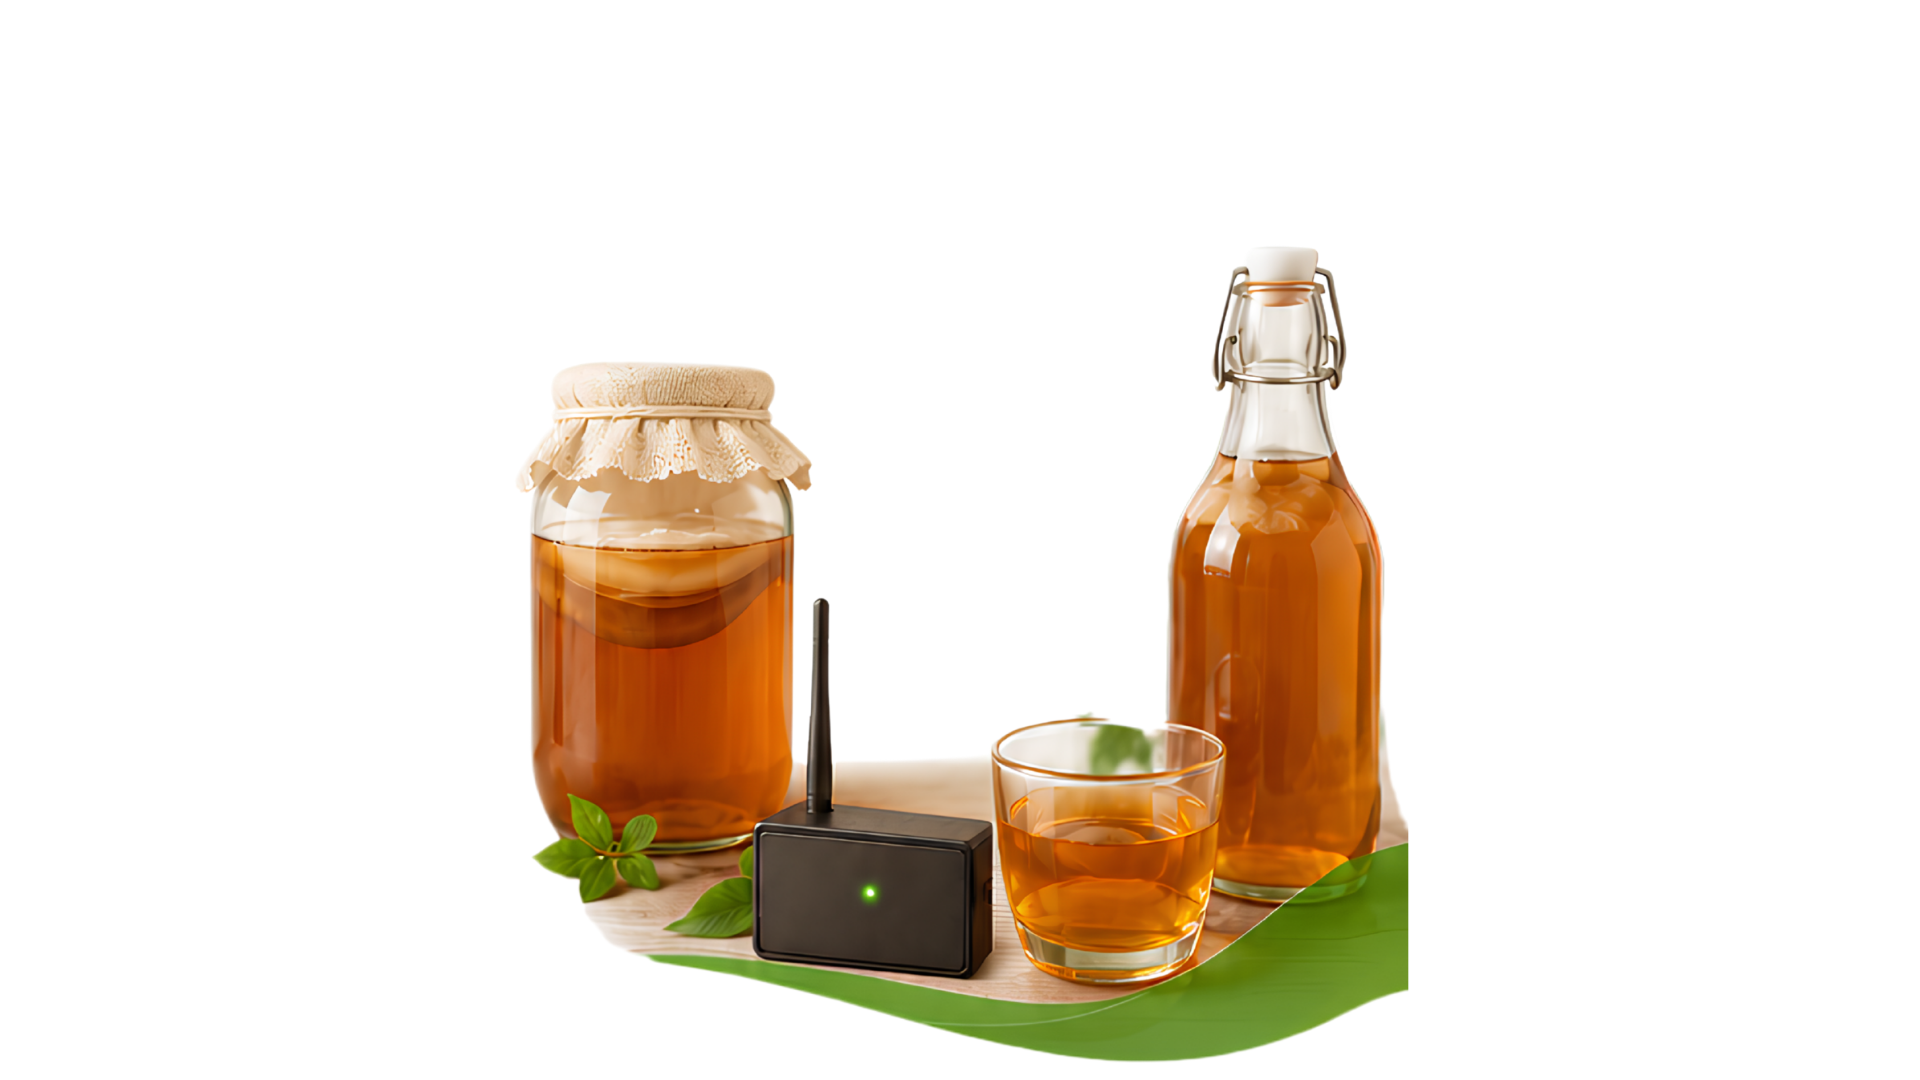
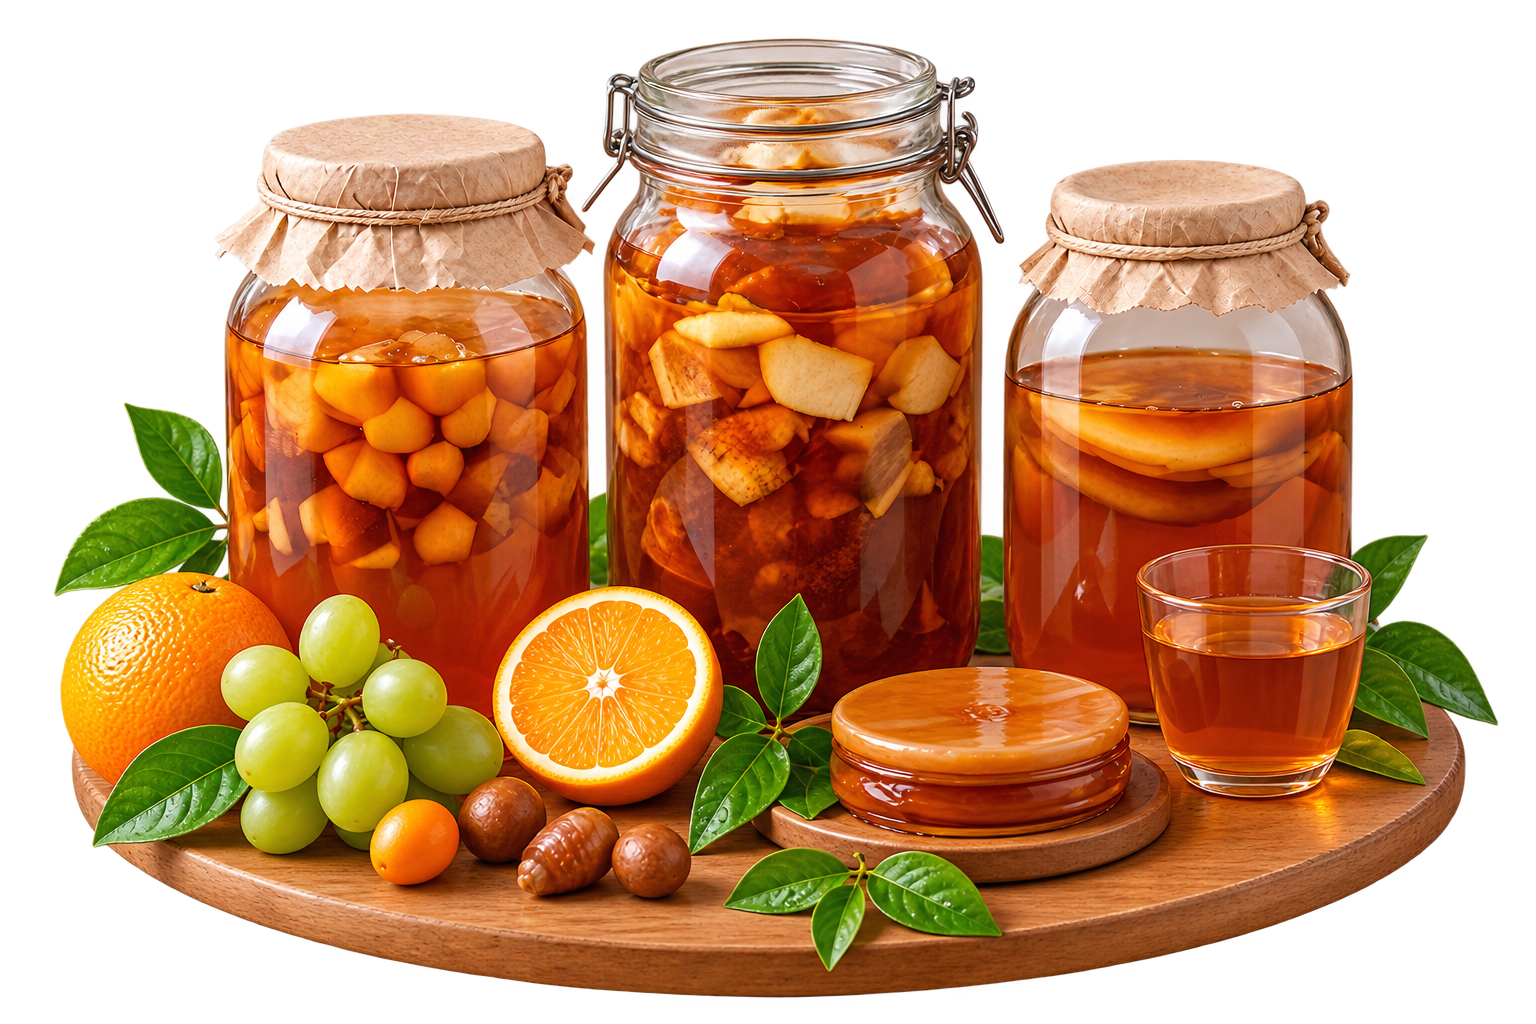
ganti gambar landing page

diff --git a/src/pages/LandingPage.jsx b/src/pages/LandingPage.jsx
@@ -13,9 +13,6 @@ import kombuchaImage from '../assets/Kombucha.png';
 import ecoEnzymeImage from '../assets/eco-enzyme.png';
 import fruitEnzymeImage from '../assets/fruit-enzyme.png';
 
-// =====================================================================
-// ANIMASI
-// =====================================================================
 const fadeInUp = {
   hidden: { opacity: 0, y: 30 },
   visible: { opacity: 1, y: 0, transition: { duration: 0.6, ease: "easeOut" } }
@@ -26,7 +23,6 @@ const staggerContainer = {
   visible: { opacity: 1, transition: { staggerChildren: 0.15 } }
 };
 
-// Hiasan daun mengambang
 function FloatingLeaf({ className = "", delay = 0, duration = 6, rotate = -10, size = 34 }) {
   return (
     <motion.svg
@@ -42,7 +38,6 @@ function FloatingLeaf({ className = "", delay = 0, duration = 6, rotate = -10, s
   );
 }
 
-// Ikon sosial media
 function SocialIcon({ type }) {
   const common = { width: 16, height: 16, viewBox: "0 0 24 24" };
   if (type === "facebook") {
@@ -68,47 +63,30 @@ function SocialIcon({ type }) {
   );
 }
 
-// =====================================================================
-// KOMPONEN UTAMA LANDING PAGE
-// =====================================================================
 export default function LandingPage() {
   return (
     <div className="min-h-screen bg-[#fcfcfb] font-sans text-gray-800 overflow-x-hidden">
-
-      {/* --- NAVBAR --- */}
-      <motion.nav
-        initial={{ y: -50, opacity: 0 }}
-        animate={{ y: 0, opacity: 1 }}
-        transition={{ duration: 0.5 }}
-        className="flex justify-between items-center px-6 md:px-16 py-6 max-w-7xl mx-auto"
-      >
+      
+      {/* NAVBAR */}
+      <nav className="flex justify-between items-center px-6 md:px-16 py-6 max-w-7xl mx-auto">
         <div className="flex items-center gap-3 cursor-pointer">
-          <img
-            src={logo}
-            alt="Logo FermaSense"
-            className="w-12 h-12 rounded-full object-cover"
-          />
-
+          <img src={logo} alt="Logo FermaSense" className="w-12 h-12 rounded-full object-cover" />
           <div className="leading-tight">
-            <span className="block text-xl font-black text-gray-900 tracking-tight">
-              FermaSense
-            </span>
-            <span className="block text-[10px] text-gray-400 font-medium tracking-wide">
-              Monitor. Ferment. Perfect.
-            </span>
+            <span className="block text-xl font-black text-gray-900 tracking-tight">FermaSense</span>
+            <span className="block text-[10px] text-gray-400 font-medium tracking-wide">Monitor. Ferment. Perfect.</span>
           </div>
         </div>
 
         <div className="hidden md:flex gap-10 font-medium text-gray-600 text-sm">
-          <Link to="/" className="text-green-700 font-semibold border-b-2 border-green-700 pb-1"> Beranda </Link>
-          <Link to="/dashboard" className="hover:text-green-700 transition-colors"> Dashboard</Link>
+          <Link to="/" className="text-green-700 font-semibold border-b-2 border-green-700 pb-1">Beranda</Link>
+          <Link to="/dashboard" className="hover:text-green-700 transition-colors">Dashboard</Link>
           <a href="#tentang" className="hover:text-green-700 transition-colors">Tentang</a>
           <a href="#fitur" className="hover:text-green-700 transition-colors">Fitur</a>
-          <a href="#kontak" className="hover:text-green-700 transition-colors">Kontak </a>
+          <a href="#kontak" className="hover:text-green-700 transition-colors">Kontak</a>
         </div>
-      </motion.nav>
+      </nav>
 
-      {/* --- HERO SECTION --- */}
+      {/* HERO SECTION */}
       <motion.main
         initial="hidden"
         animate="visible"
@@ -158,14 +136,13 @@ export default function LandingPage() {
           </div>
         </motion.div>
 
-        {/* GAMBAR HERO KANAN */}
-        <motion.div variants={fadeInUp} className="relative h-[420px] lg:h-[550px] flex items-center justify-center w-full">
+        {/* HERO IMAGE KANAN (Disesuaikan agar pas / tidak terpotong) */}
+        <motion.div variants={fadeInUp} className="relative h-[420px] lg:h-[520px] flex items-center justify-center w-full">
           <FloatingLeaf className="-top-2 right-6" delay={0.6} duration={5.5} rotate={15} />
 
-          {/* KARTU SISTEM AKTIF (DAPAT DIGESER / DRAGGABLE) */}
           <motion.div
             drag
-            dragConstraints={{ top: -100, left: -100, right: 100, bottom: 150 }}
+            dragConstraints={{ top: -80, left: -80, right: 80, bottom: 120 }}
             dragElastic={0.1}
             whileDrag={{ scale: 1.05 }}
             className="absolute top-6 left-0 lg:-left-6 bg-white/95 backdrop-blur-md p-5 rounded-3xl shadow-2xl border border-white/50 w-64 z-20 cursor-grab active:cursor-grabbing select-none"
@@ -196,15 +173,17 @@ export default function LandingPage() {
             </Link>
           </motion.div>
 
-          <img
-            src={heroImage}
-            alt="Toples Kombucha dan Perangkat IoT"
-            className="w-full h-full object-cover rounded-[3rem] pointer-events-none select-none"
-          />
+          <div className="w-full h-full rounded-[2.5rem] overflow-hidden bg-green-50/40 border border-green-100 flex items-center justify-center p-4">
+            <img
+              src={heroImage}
+              alt="Toples Kombucha dan Perangkat IoT"
+              className="w-full h-full object-contain object-center pointer-events-none select-none drop-shadow-md"
+            />
+          </div>
         </motion.div>
       </motion.main>
 
-      {/* --- SECTION PILIHAN SISTEM (3 KARTU) --- */}
+      {/* SECTION PILIHAN OBJEK */}
       <motion.section
         id="fitur"
         initial="hidden"
@@ -225,24 +204,9 @@ export default function LandingPage() {
 
         <div className="grid grid-cols-1 md:grid-cols-3 gap-8 text-left">
           {[
-            { 
-              title: "Kombucha", 
-              path: "/kombucha", 
-              desc: "Pantau fermentasi kombucha secara real-time untuk hasil terbaik setiap saat.", 
-              icon: Droplet 
-            },
-            { 
-              title: "Eco Enzyme", 
-              path: "/eco-enzyme", 
-              desc: "Pantau fermentasi eco enzyme secara real-time untuk kualitas optimal.", 
-              icon: Recycle 
-            },
-            { 
-              title: "Fruit Enzyme", 
-              path: "/fruit-enzyme", 
-              desc: "Pantau fermentasi fruit enzyme secara real-time untuk hasil terbaik setiap saat.", 
-              icon: Apple 
-            }
+            { title: "Kombucha", path: "/kombucha", desc: "Pantau fermentasi kombucha secara real-time untuk hasil terbaik setiap saat.", icon: Droplet },
+            { title: "Eco Enzyme", path: "/eco-enzyme", desc: "Pantau fermentasi eco enzyme secara real-time untuk kualitas optimal.", icon: Recycle },
+            { title: "Fruit Enzyme", path: "/fruit-enzyme", desc: "Pantau fermentasi fruit enzyme secara real-time untuk hasil terbaik setiap saat.", icon: Apple }
           ].map((item, index) => (
             <motion.div
               key={index}
@@ -293,7 +257,7 @@ export default function LandingPage() {
         </div>
       </motion.section>
 
-      {/* --- SECTION KENAPA MEMILIH FERMASENSE --- */}
+      {/* SECTION KENAPA MEMILIH */}
       <motion.section
         initial="hidden"
         whileInView="visible"
@@ -326,7 +290,7 @@ export default function LandingPage() {
         </div>
       </motion.section>
 
-      {/* --- SECTION TEKNOLOGI CERDAS (TENTANG) --- */}
+      {/* SECTION TENTANG */}
       <motion.section
         id="tentang"
         initial="hidden"
@@ -366,7 +330,7 @@ export default function LandingPage() {
             </div>
           </div>
           
-          <div className="relative h-72 lg:h-96 rounded-3xl overflow-hidden border border-white bg-white flex items-center justify-center p-4">
+          <div className="relative h-72 lg:h-96 rounded-3xl overflow-hidden border border-white bg-white flex items-center justify-center p-4 shadow-sm">
             <img 
               src={keranjangImage} 
               alt="Keranjang buah segar" 
@@ -376,7 +340,7 @@ export default function LandingPage() {
         </motion.div>
       </motion.section>
 
-      {/* --- CTA SECTION --- */}
+      {/* CTA SECTION */}
       <motion.section
         initial="hidden"
         whileInView="visible"
@@ -401,15 +365,11 @@ export default function LandingPage() {
         </motion.div>
       </motion.section>
 
-      {/* --- FOOTER --- */}
+      {/* FOOTER */}
       <footer id="kontak" className="max-w-7xl mx-auto px-6 md:px-16 pt-10 pb-12 border-t border-gray-100">
         <div className="flex flex-col md:flex-row justify-between gap-10">
           <div className="flex items-center gap-3">
-            <img
-              src={logo}
-              alt="Logo FermaSense"
-              className="w-12 h-12 rounded-full object-cover"
-            />
+            <img src={logo} alt="Logo FermaSense" className="w-12 h-12 rounded-full object-cover" />
             <div className="leading-tight">
               <span className="block text-lg font-black text-gray-900">FermaSense</span>
               <span className="block text-[10px] text-gray-400 font-medium">Monitor. Ferment. Perfect.</span>
@@ -446,7 +406,6 @@ export default function LandingPage() {
           </div>
         </div>
       </footer>
-
     </div>
   );
 }
